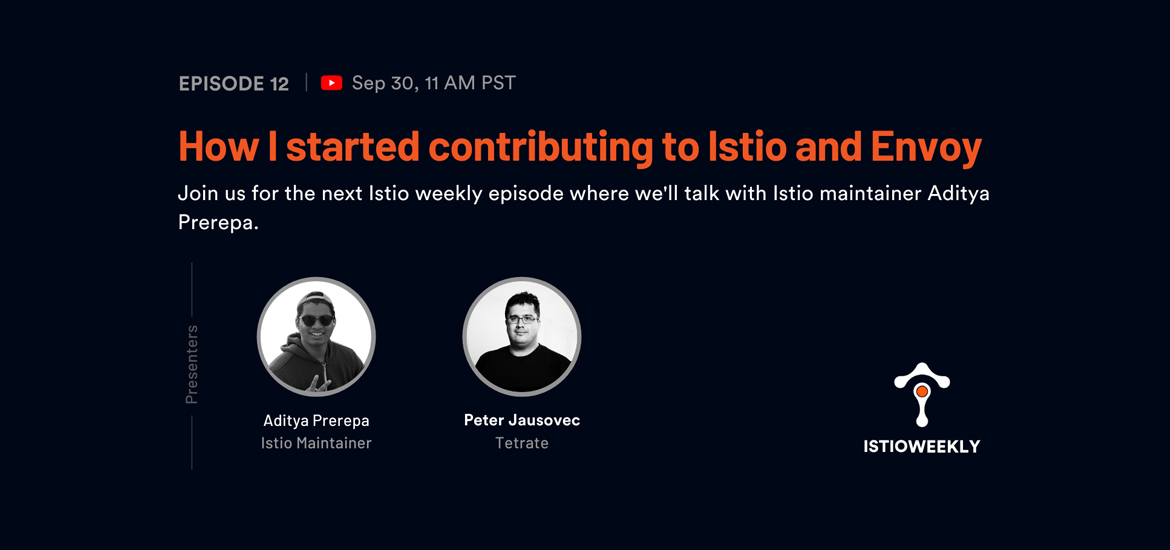
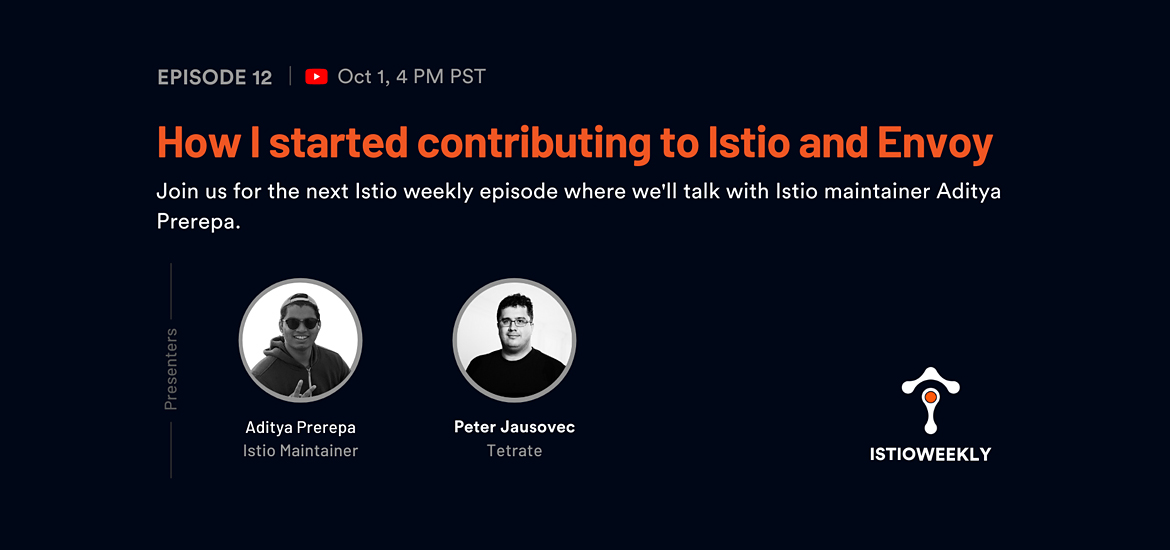
Episode 12 date and time changed
Event info updated

diff --git a/content/en/community/event/tid-episode-015/index.md b/content/en/community/event/tid-episode-015/index.md
@@ -4,7 +4,7 @@ description: 'Join us on September 30th for the next Istio weekly episode where 
 categories: "event"
 image: 'images/events/episode-015-thumbnail.jpg'
 eventLink: 'https://www.youtube.com/watch?v=o3Fi6nwuuiI'
-eventDate: 2021-09-30T11:00:00
+eventDate: 2021-10-01T16:00:00
 pastEvent: false
 timezone: PST
 ---
